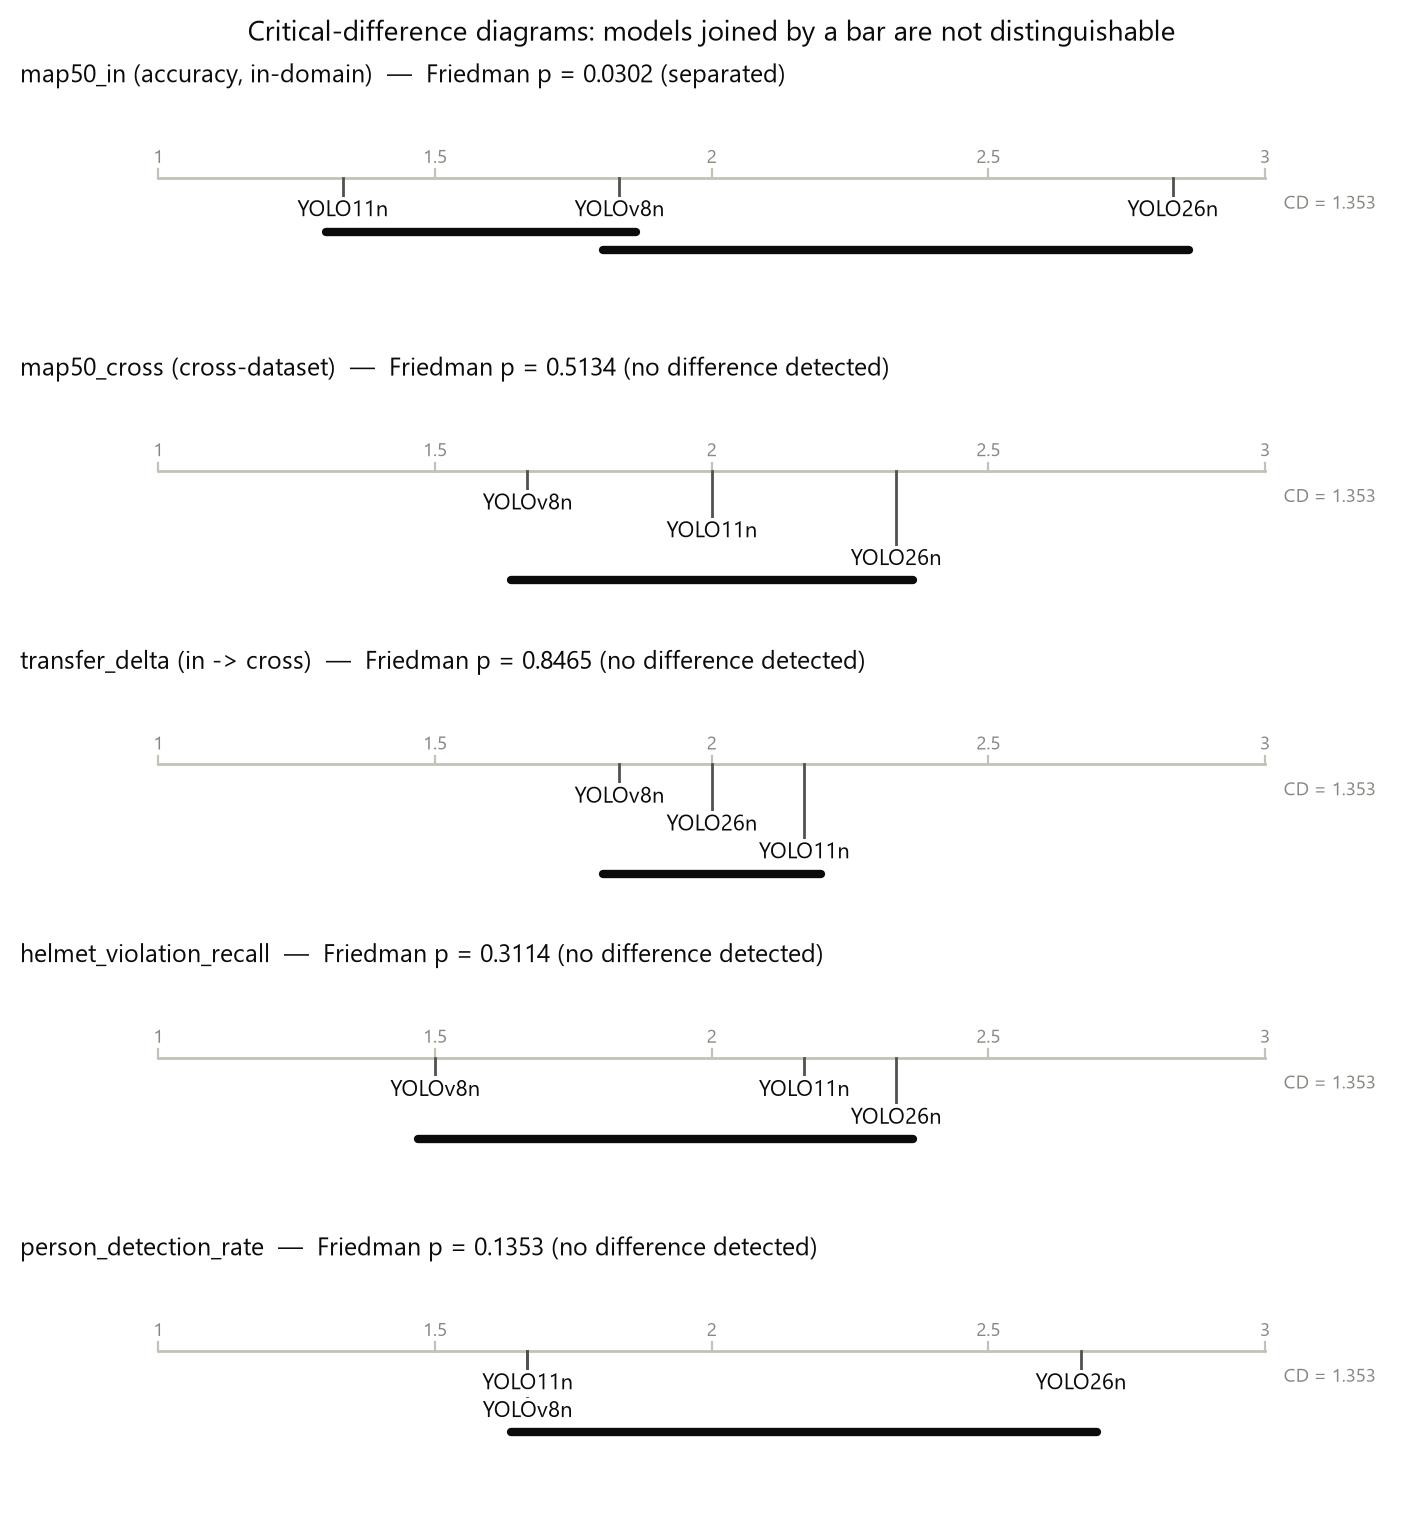
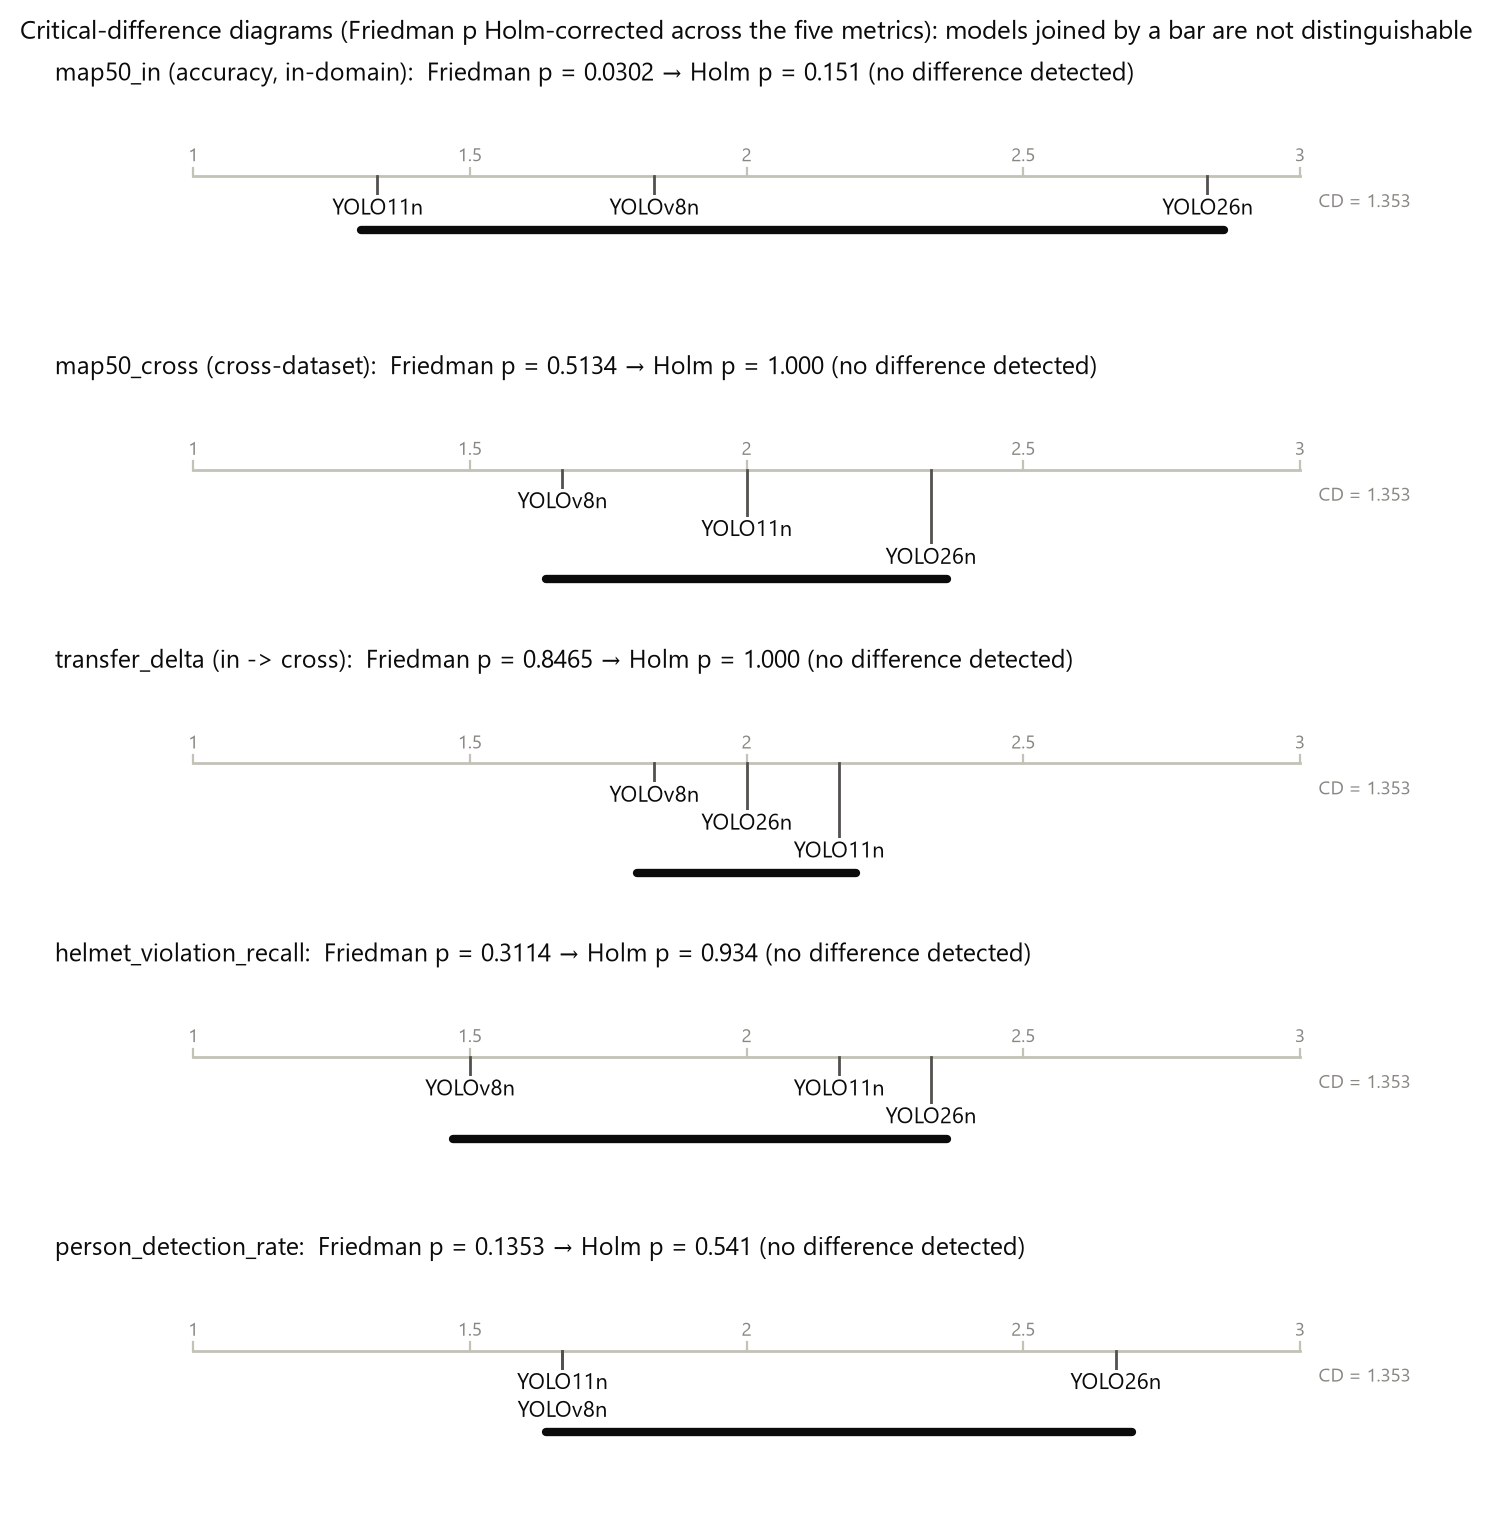
fix: regenerate the critical-difference figure with Holm correction

diff --git a/results/README.md b/results/README.md
@@ -21,4 +21,6 @@ The per-run `summary.json` files in `X04-runs/` were written at the end of each 
 
 The run IDs (`X04-y8n-s2-chv`) follow `X##-<model>-<seed>-<training dataset>`. `y8n`, `y11n` and `y26n` are YOLOv8n, YOLO11n and YOLO26n; `chv` and `sh17` are the dataset the run trained on.
 
+The critical-difference figure (`X05-fig3-cd-diagram`) was regenerated on 9 November 2026 with the repo's current `src/figures.py`, because the original (6 August) predates the Holm correction and showed raw p-values. The other five figures are the original outputs.
+
 The weights are not distributed, so the files here cannot be regenerated without retraining. The code and frozen configs are in the repo.
